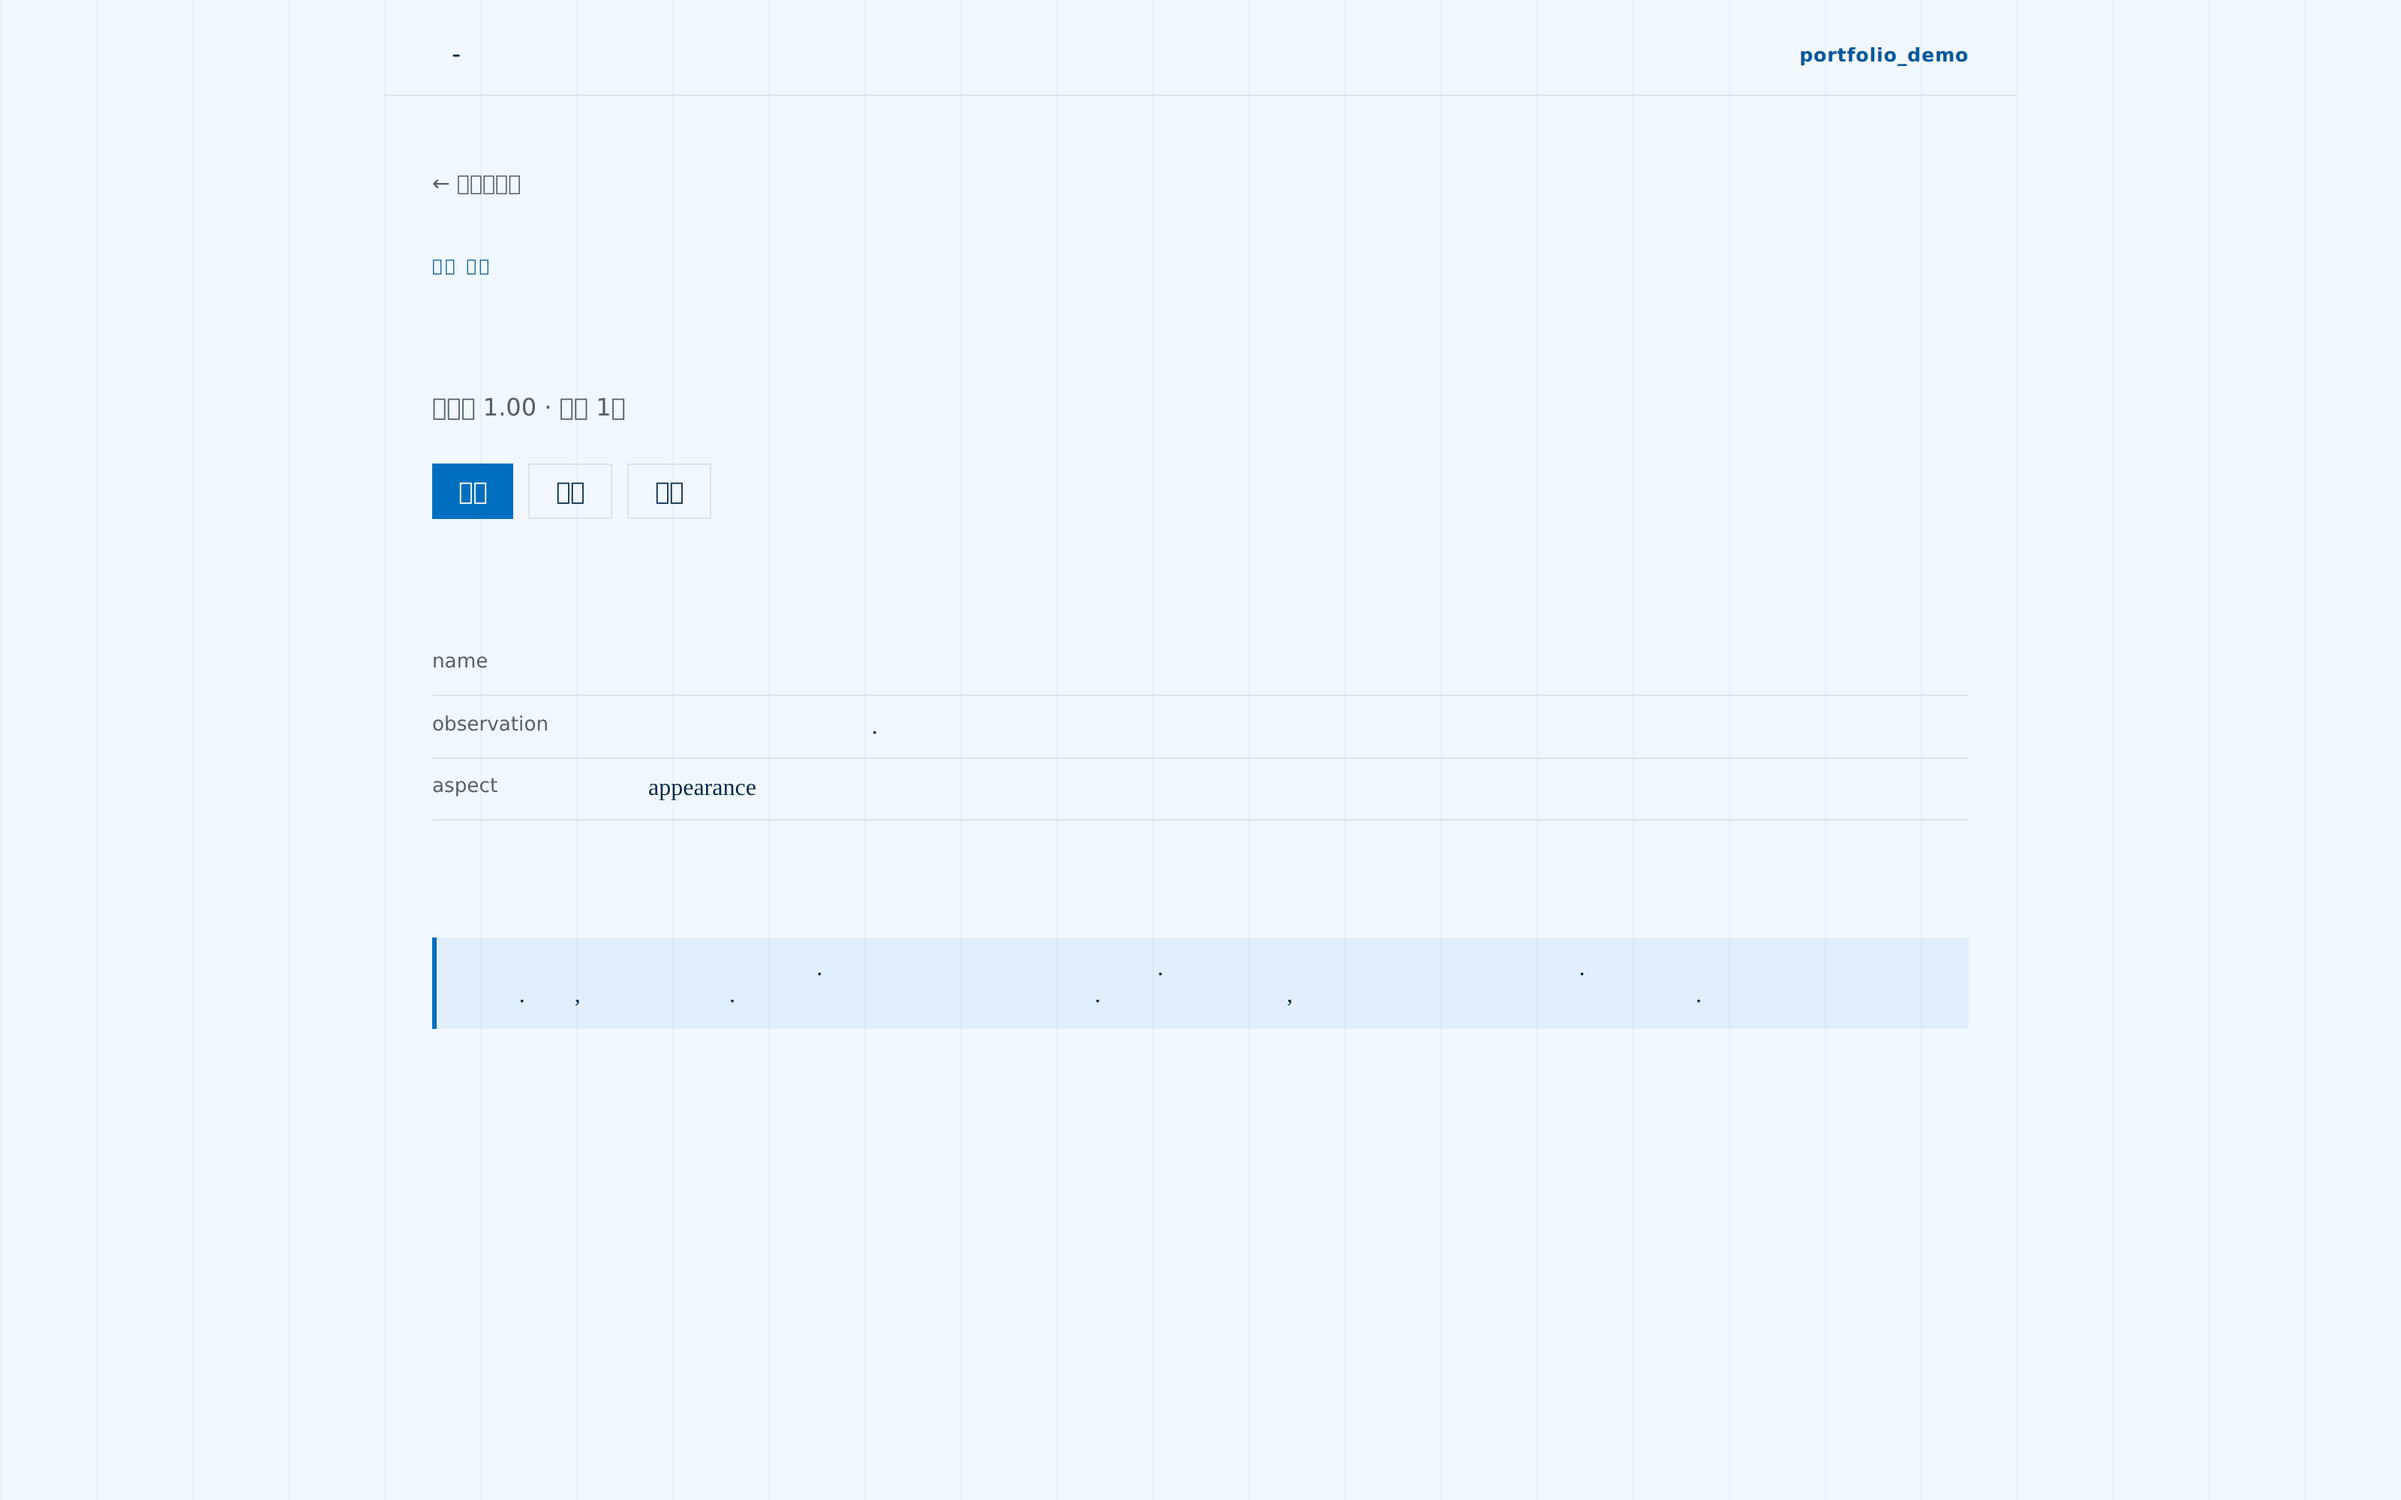
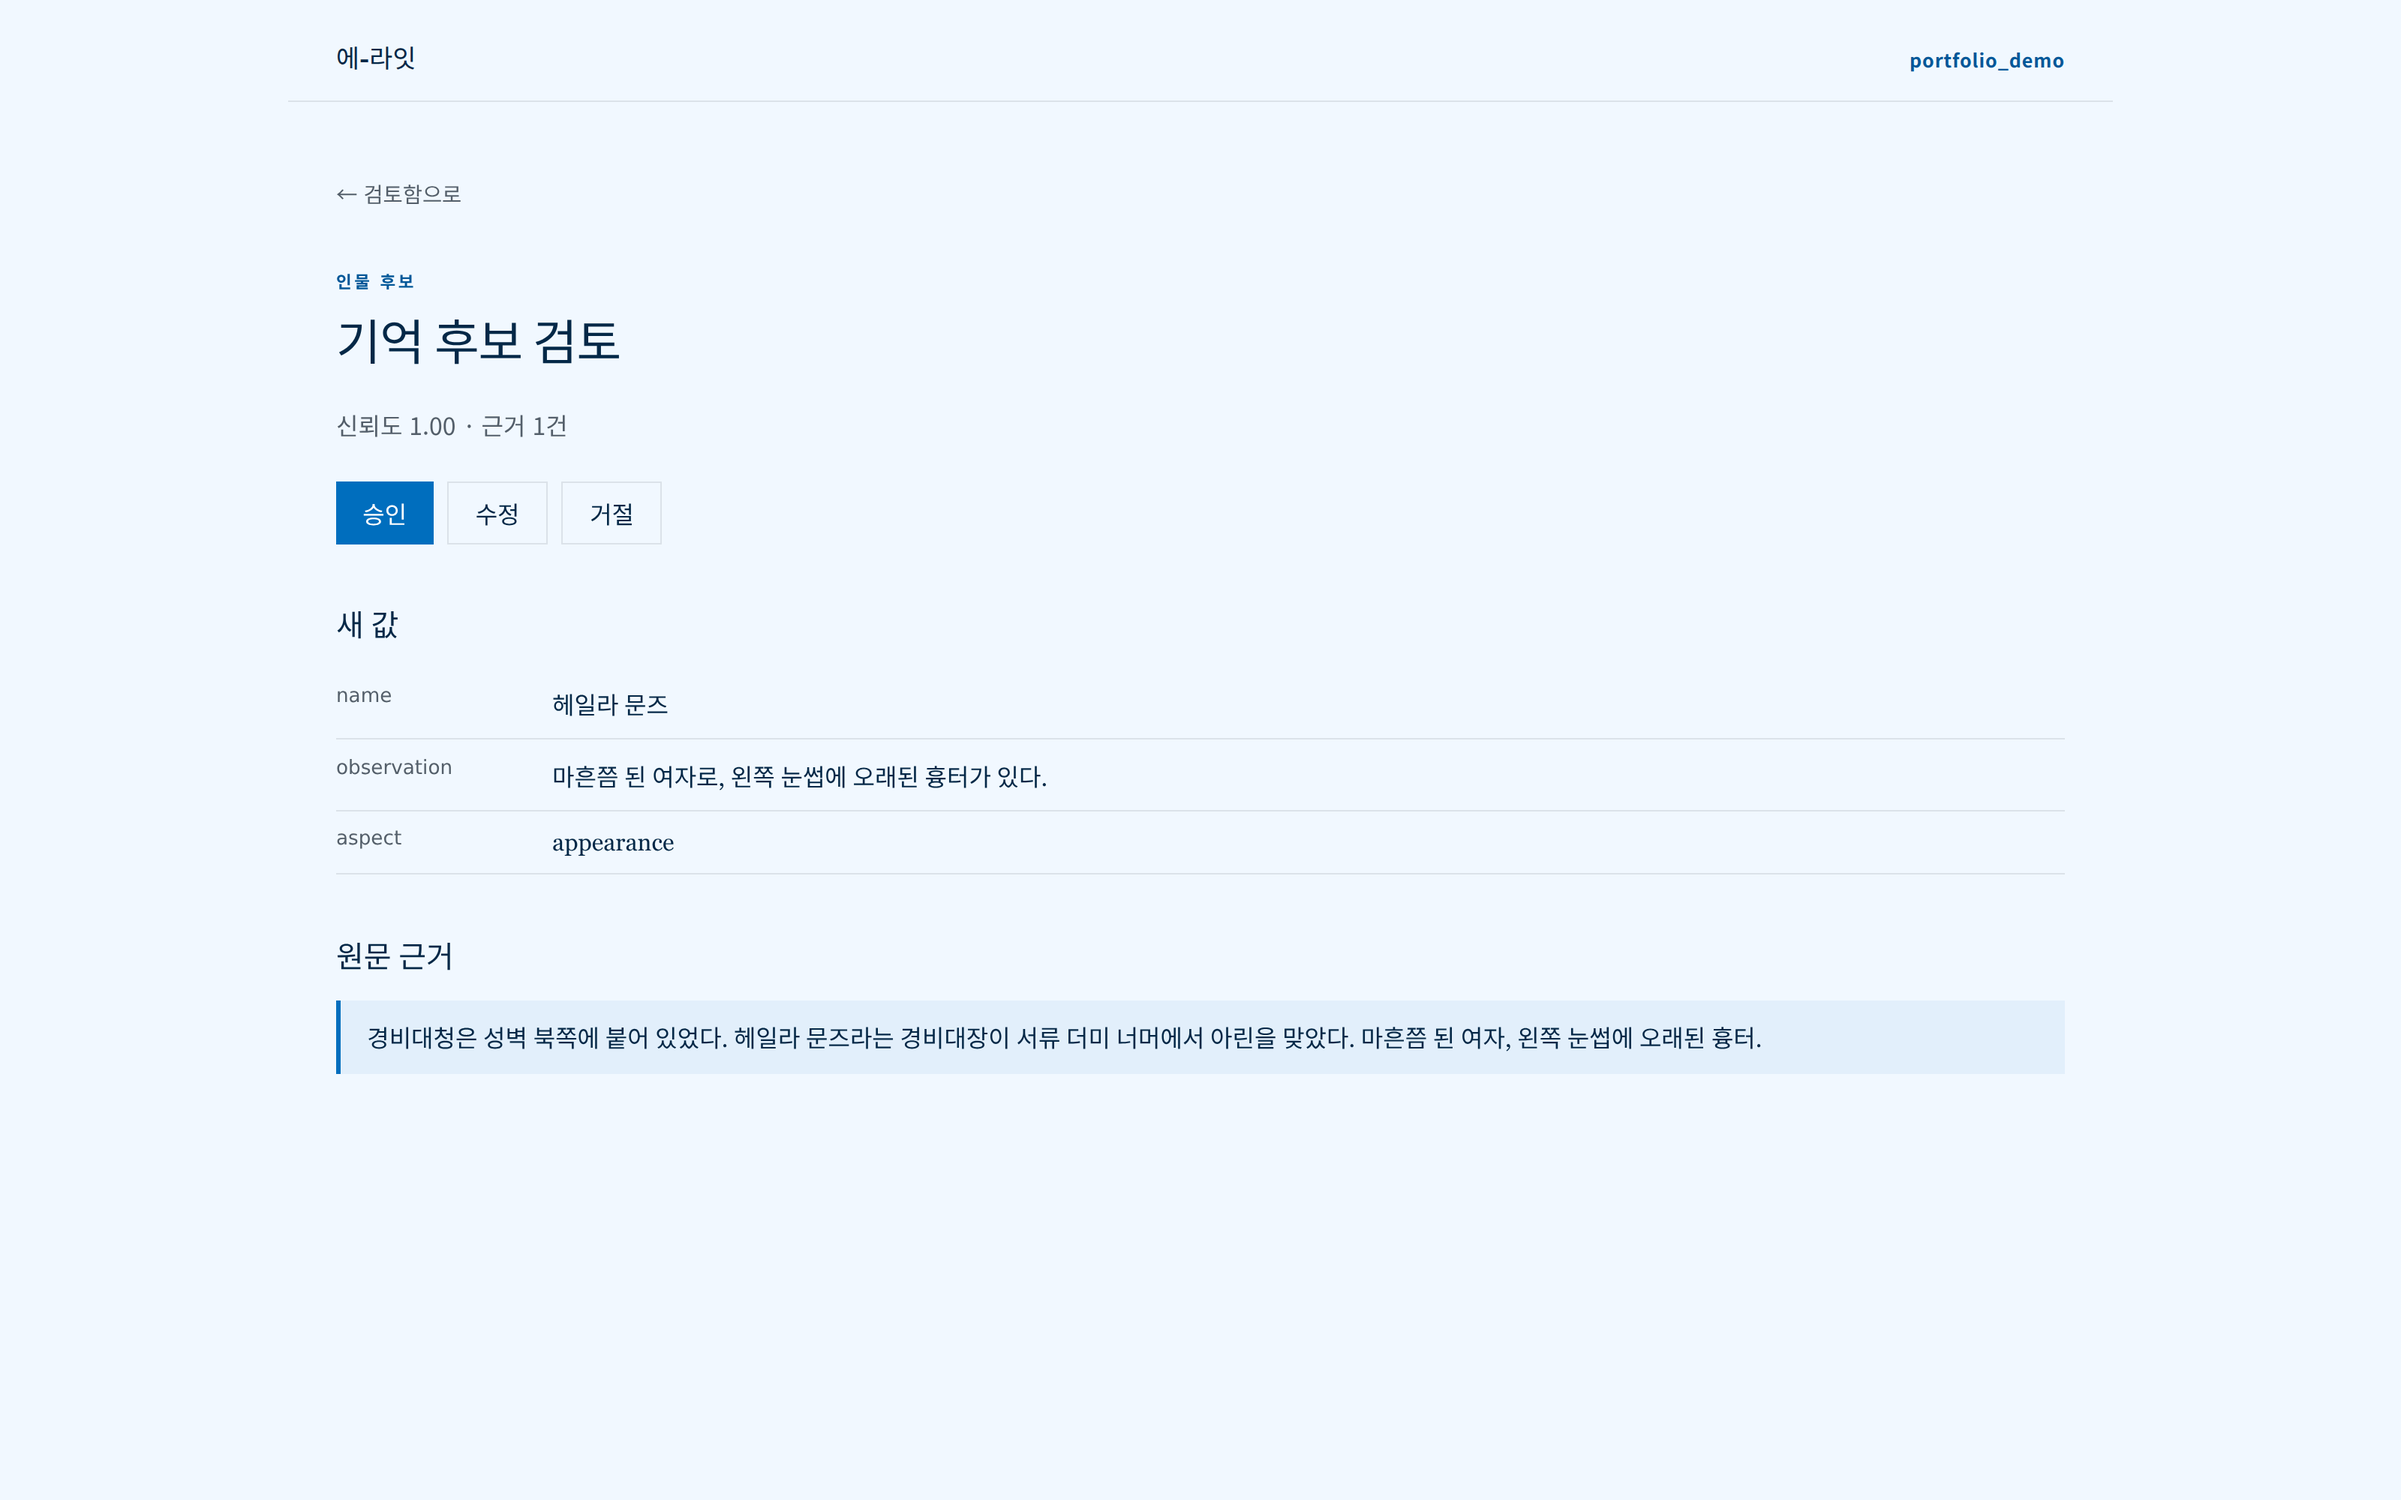
docs: 스크린샷 전면 재촬영 — 한글 두부 해소 + 프런트 재빌드(HEAD) · 세션 86
세션 84 촬영본의 결함 둘을 닫는다.

① 한글이 전부 두부(□)였다 — WSL 호스트에 한글 폰트가 0개인데 앱은 웹폰트를 싣지
   않고 시스템 폰트 스택만 선언한다(styles.css:4·1808). 촬영 환경에 필요한 4종만
   노출해 폴백을 결정론으로 만들었다(~/.config/fontconfig). 실측으로 걸러낸 함정 셋:
   batang.ttc 는 <textarea> 안에서 한글을 통째로 떨구고(원고 본문이 투명했다),
   윈도 폰트를 통째로 물리면 Chromium 폴백이 고딕으로 튀며, Noto*-VF(가변)는 이
   Chromium 에서 Sans 가 Thin 으로 잡히고 Serif 는 한글을 못 낸다 → 정적 OTF 로 교체.

② ★ 더 큰 문제 — 찍힌 UI 자체가 3주 전이었다. 세션 84 는 application 이미지만
   재빌드하고 frontend(2026-08-22 빌드)는 그대로 뒀다. 그 사이 frontend/ 커밋 102개
   (writing studio W1~W4 · 루트 랜딩 · 가입 동의 게이트 · 관리자 잔여 정리 화면 ·
   약관 v1.1)가 쌓여 있었다. 오너 승인으로 frontend 를 재빌드하고 전량 재촬영했다.

- 스크린샷 8장(랜딩 신규) — 정체성 그룹이 보이는 검토함·집필 도구 서랍이 이제 보인다.
- 세션 84 가 같은 화면을 두 칸에 넣었던 것도 바로잡았다(기억후보목록 칸이 상세 화면이었다).
- 기억 후보 검토 GIF 재촬영.

diff --git a/README.md b/README.md
@@ -10,17 +10,21 @@
 
 작업 흐름 — 프로젝트 → 원고 작업공간 → 기억 후보 검토(클릭하면 원본 크기):
 
-| 프로젝트 목록 | 원고 작업공간 |
+| 첫 화면(익명) | 로그인 |
 |---|---|
-| [![프로젝트 목록 화면](docs/img/프로젝트목록_3x2.png)](docs/img/프로젝트목록_3x2.png) | [![원고 작업공간 화면](docs/img/글편집페이지_3x2.png)](docs/img/글편집페이지_3x2.png) |
+| [![랜딩 화면](docs/img/랜딩페이지_3x2.png)](docs/img/랜딩페이지_3x2.png) | [![로그인 화면](docs/img/로그인페이지_3x2.png)](docs/img/로그인페이지_3x2.png) |
 
-| 기억 후보 목록 | 기억 후보 검토 |
+| 프로젝트 목록 | 원고 목록(장·장면) |
+|---|---|
+| [![프로젝트 목록 화면](docs/img/프로젝트목록_3x2.png)](docs/img/프로젝트목록_3x2.png) | [![원고 목록 화면](docs/img/원고목록_3x2.png)](docs/img/원고목록_3x2.png) |
+
+| 원고 작업공간(집필 도구 서랍) | 관측 대시보드 |
+|---|---|
+| [![원고 작업공간 화면](docs/img/글편집페이지_3x2.png)](docs/img/글편집페이지_3x2.png) | [![관측 대시보드 화면](docs/img/관측대시보드_3x2.png)](docs/img/관측대시보드_3x2.png) |
+
+| 기억 후보 목록(정체성 그룹) | 기억 후보 검토(근거) |
 |---|---|
 | [![기억 후보 목록 화면](docs/img/기억후보목록_3x2.png)](docs/img/기억후보목록_3x2.png) | [![기억 후보 검토 화면](docs/img/기억후보검토_3x2.png)](docs/img/기억후보검토_3x2.png) |
-
-| 원고 목록(장·장면) | 관측 대시보드 |
-|---|---|
-| [![원고 목록 화면](docs/img/원고목록_3x2.png)](docs/img/원고목록_3x2.png) | [![관측 대시보드 화면](docs/img/관측대시보드_3x2.png)](docs/img/관측대시보드_3x2.png) |
 
 **움직이는 모습** — 실제 LLM 파이프라인이 돌아가는 녹화(클릭하면 원본 크기):
 
@@ -28,10 +32,10 @@
 |---|---|
 | [![이어쓰기 생성 GIF](docs/img/이어쓰기생성.gif)](docs/img/이어쓰기생성.gif) | [![기억 후보 검토 GIF](docs/img/기억후보검토.gif)](docs/img/기억후보검토.gif) |
 
-<sub>스크린샷은 같은 규칙(배경색 패딩 3:2 · 1200px)으로 정규했다 —
-[`docs/img/normalize.py`](docs/img/normalize.py). 로그인 화면 포함 7장이 `docs/img/`에 있다.
-데모 데이터(검은 태양의 연대기)는 실제 파이프라인 — 분석 추출·후보 그룹화·승인 — 을
-돌려 만들었다.</sub>
+<sub>스크린샷 8장은 같은 규칙(배경색 패딩 3:2 · 1200px)으로 정규했다 —
+[`docs/img/normalize.py`](docs/img/normalize.py). 데모 데이터(검은 태양의 연대기)는 실제
+파이프라인 — 분석 추출·후보 그룹화·승인 — 을 돌려 만들었다. 촬영은 이 저장소의 현재
+`main` 을 빌드한 스택에서 했다(2026-09-13).</sub>
 
 ## 이 저장소를 읽는 세 축
 
